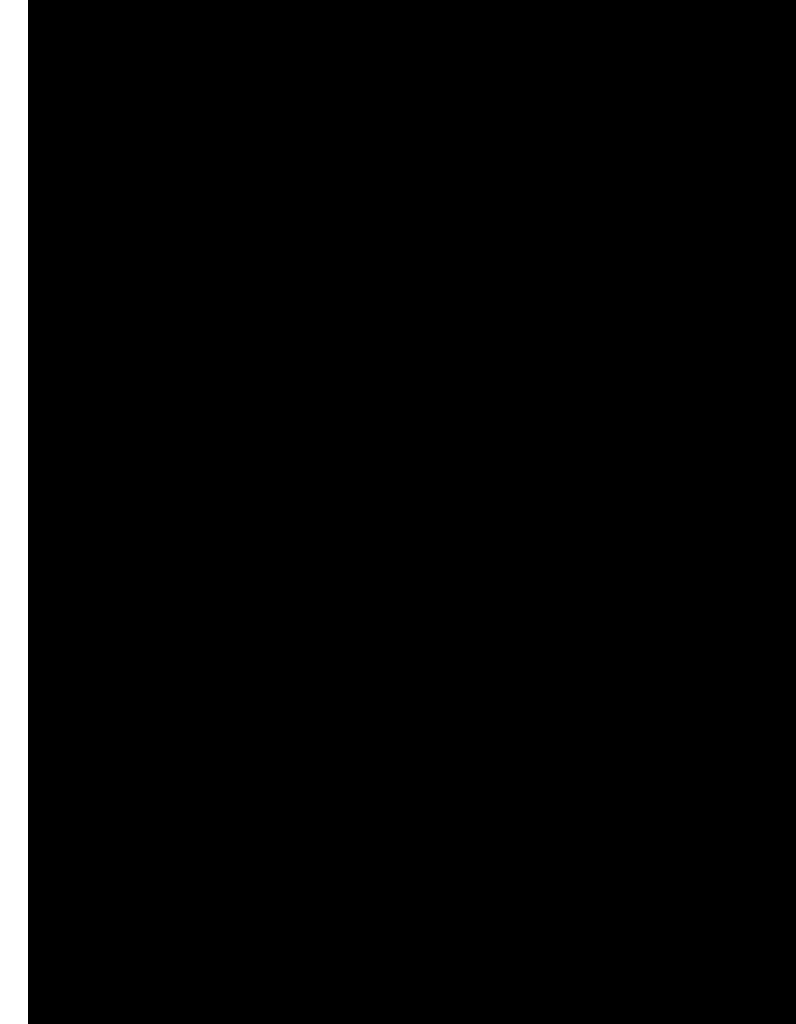
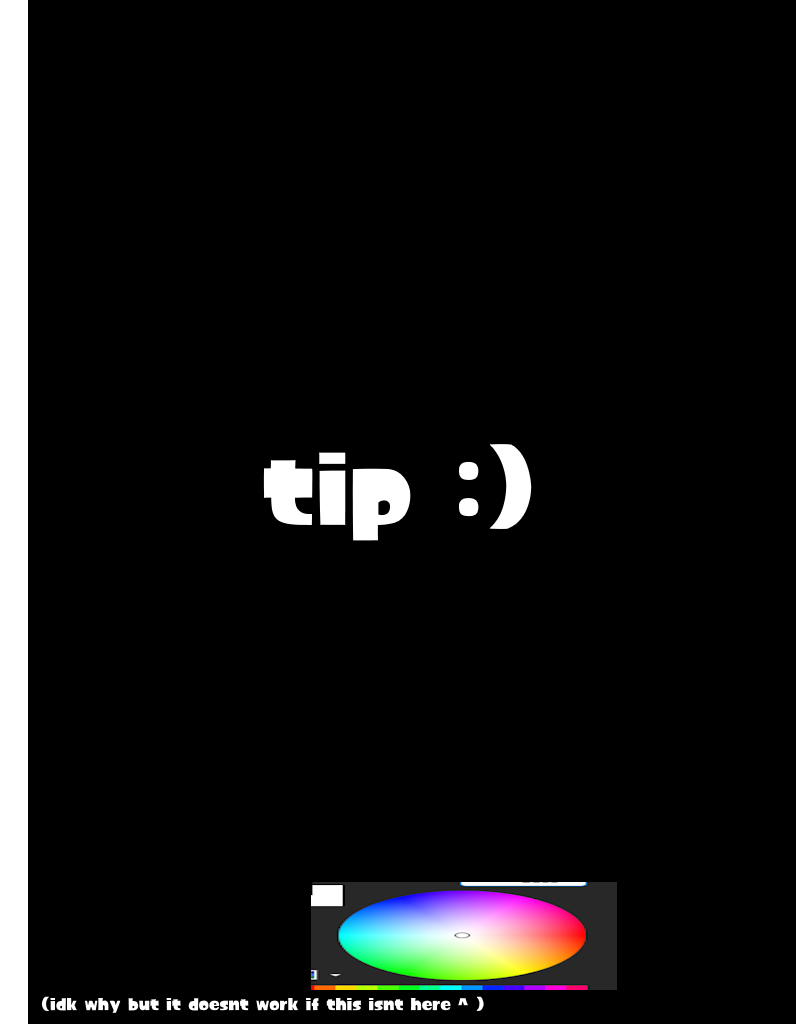
tip maker

Changed region(s): [[0.0603, 0.8438, 0.7839, 1.0], [0.3317, 0.4375, 0.5126, 0.5312], [0.5729, 0.4375, 0.6633, 0.5312]]

diff --git a/JustTheTipMaker.py b/JustTheTipMaker.py
@@ -30,7 +30,7 @@ def create_final_image():
     if not output_folder.get():
         print("Please select an output folder.")
         return
-    background = Image.open('posters.png')
+    background = Image.open('tips.png')
     for position, img in images.items():
         background.paste(img, positions[position])
     output_path = get_next_filename(output_folder.get())
@@ -38,8 +38,8 @@ def create_final_image():
     print(f"Final image saved as '{output_path}'")
 
 # Define the positions where the images will be placed
-positions = [(0, 0)]
-sizes = [(341, 455)]
+positions = [(28, 0)]
+sizes = [(768, 1024)]
 images = {}
 
 # Create the main window
